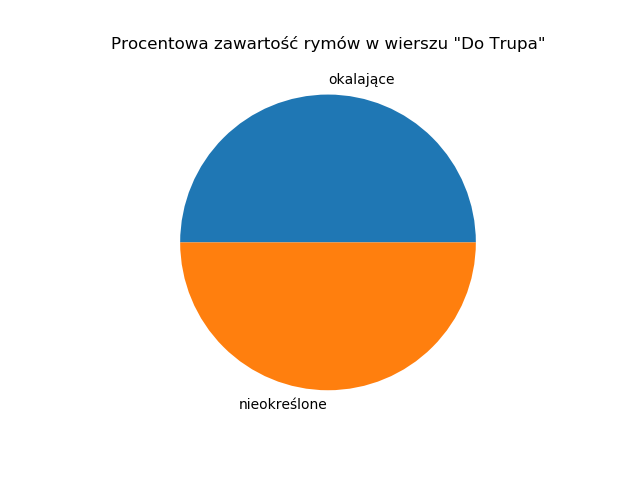
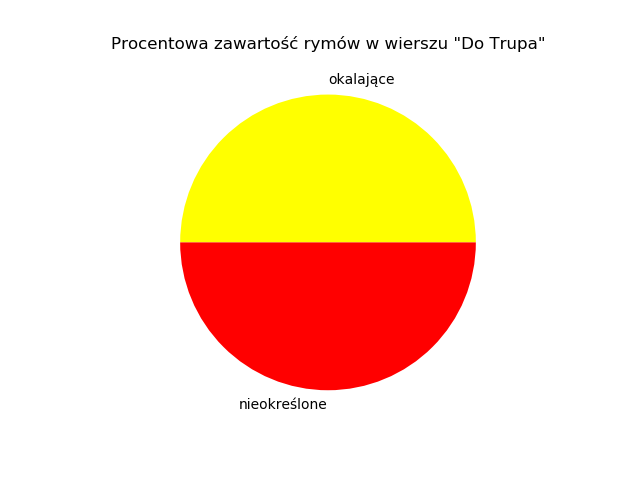
no message

Changed region(s): [[0.2812, 0.1875, 0.75, 0.8125]]

diff --git a/main.py b/main.py
@@ -27,6 +27,8 @@ surrounding = []
 unspecified = []
 
 
+#colors [evens = green, surrounding = yellow, crossing = blue, unspecified = czerwone]
+
 for x in range(13):
     evens.append(grupy[x].rhyme_groups["even"].__len__())
     crosses.append(grupy[x].rhyme_groups["cross"].__len__())
@@ -52,25 +54,27 @@ plt.title("Procentowa zawartość rymów w księgach")
 
 plt.figure()
 
-plt.bar(OX, surrounding[:13],width, label = 'okalające')
 
-plt.bar(OX,crosses[:13] ,width, label = 'krzyzowe', bottom = surrounding[:13])
+plt.bar(OX, surrounding[:13],width, label = 'okalające', color = "yellow")
 
-suma = np.array(surrounding[:13]) + np.array(crosses[:13])
+plt.bar(OX, evens[:13], width, label = 'sasiadujace', bottom=surrounding[:13], color = "green")
 
-plt.bar(OX, evens[:13], width, label = 'sasiadujace', bottom=suma)
+suma = np.array(surrounding[:13]) + np.array(evens[:13])
 
-suma2 = suma + np.array(evens[:13])
+plt.bar(OX,crosses[:13] ,width, label = 'krzyzowe', bottom = suma, color = "blue")
 
-plt.bar(OX, unspecified[:13], width, label = 'nieokreślone', bottom=suma2)
+suma2 = suma + np.array(crosses[:13])
+
+plt.bar(OX, unspecified[:13], width, label = 'nieokreślone', bottom=suma2, color = "red")
 
 plt.legend(frameon=True,bbox_to_anchor=(1.05, 1))
 plt.title("Ilość rymów w poszczególnych księgach")
 
 plt.figure()
+
 piechartx=[evens[-1],surrounding[-1],unspecified[-1],crosses[-1]]
 
-plt.pie(piechartx, labels=["sasiadujace","okalające","nieokreślone", "krzyzowe"])
+plt.pie(piechartx, labels=["sasiadujace","okalające","nieokreślone", "krzyzowe"], colors=["green", "yellow","red","blue"])
 plt.title("Procentowa zawartość rymów w Panu Tadeuszu")
 plt.figure()
 
@@ -80,7 +84,7 @@ rymy = [grouper3.rhyme_groups["even"].__len__(), grouper3.rhyme_groups["cross"].
 xhymns = ["sąsiadujące","krzyżowe","okalające","nieokreślone"]
 xh = np.array(xhymns)
 plt.title("Procentowa zawartość rymów w wierszu \"Hymn\"")
-plt.pie(rymy,labels = ["sąsiadujące","krzyżowe","nieokreślone"])
+plt.pie(rymy,labels = ["sąsiadujące","krzyżowe","nieokreślone"], colors=["green","blue","red"])
 
 plt.figure()
 
@@ -88,7 +92,7 @@ grouper4 = RhymeGrouper(are_rhyming)
 grouper4.group('DoTrupa.txt')
 rymy2 = [grouper4.rhyme_groups["surrounding"].__len__(), grouper4.rhyme_groups["unspecified"].__len__()]
 #,grouper4.rhyme_groups["even"].__len__(), grouper4.rhyme_groups["cross"].__len__()
-plt.pie(rymy2,labels =["okalające","nieokreślone"] )
+plt.pie(rymy2,labels =["okalające","nieokreślone"] ,colors=["yellow","red"])
 #,"sąsiadujące","krzyżowe"
 plt.title("Procentowa zawartość rymów w wierszu \"Do Trupa\"")
 
@@ -100,7 +104,7 @@ grouperMK.group("Pan Balcer w Brazylii\sformatowane.txt")
 
 piechartx=[grouperMK.rhyme_groups["even"].__len__(),grouperMK.rhyme_groups["cross"].__len__(),grouperMK.rhyme_groups["surrounding"].__len__(),grouperMK.rhyme_groups["unspecified"].__len__()]
 
-plt.pie(piechartx, labels=["sasiadujace","krzyzowe","okalające","nieokreślone"])
+plt.pie(piechartx, labels=["sasiadujace","krzyzowe","okalające","nieokreślone"], colors=["green","blue","yellow","red"])
 plt.title("Procentowa zawartość rymów w \"Pan Balcer w Brazylii\"")
 
 plt.show()
